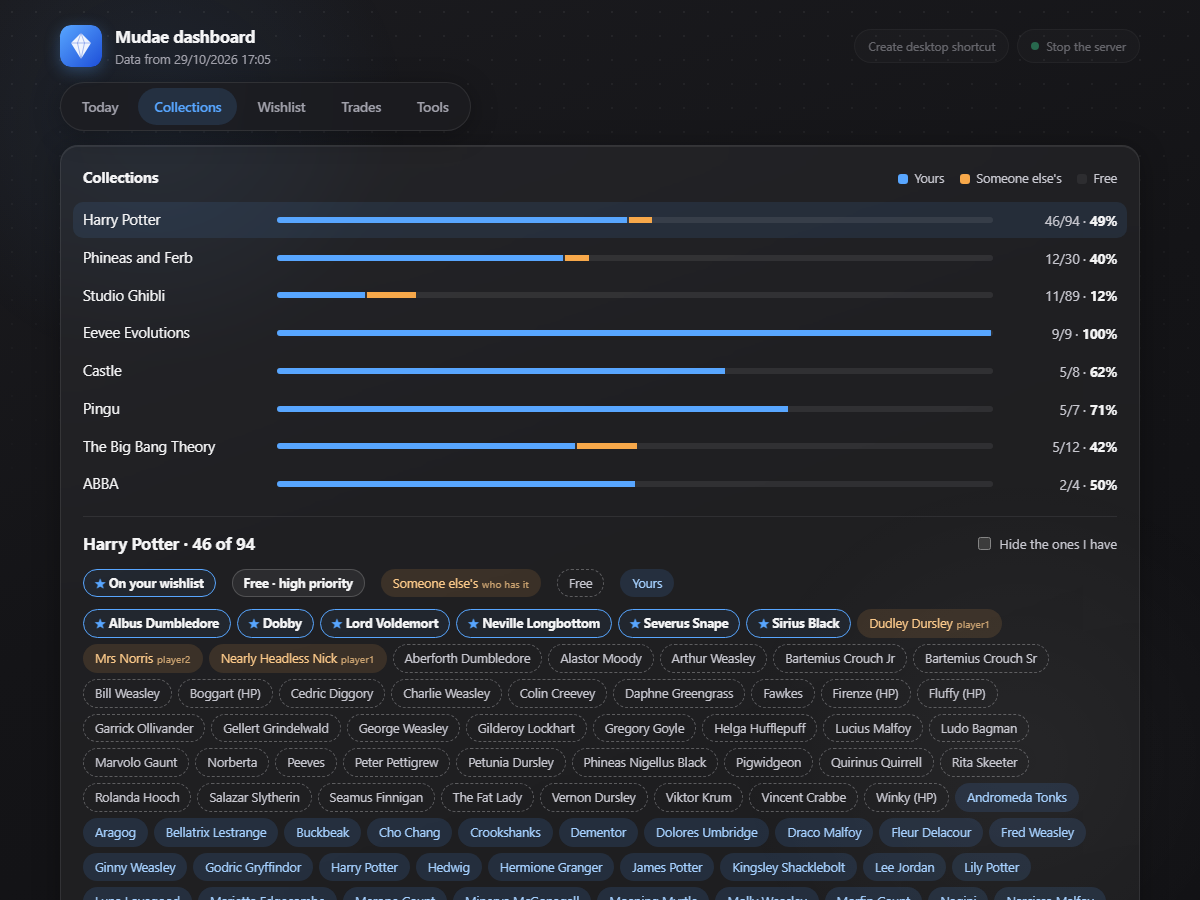
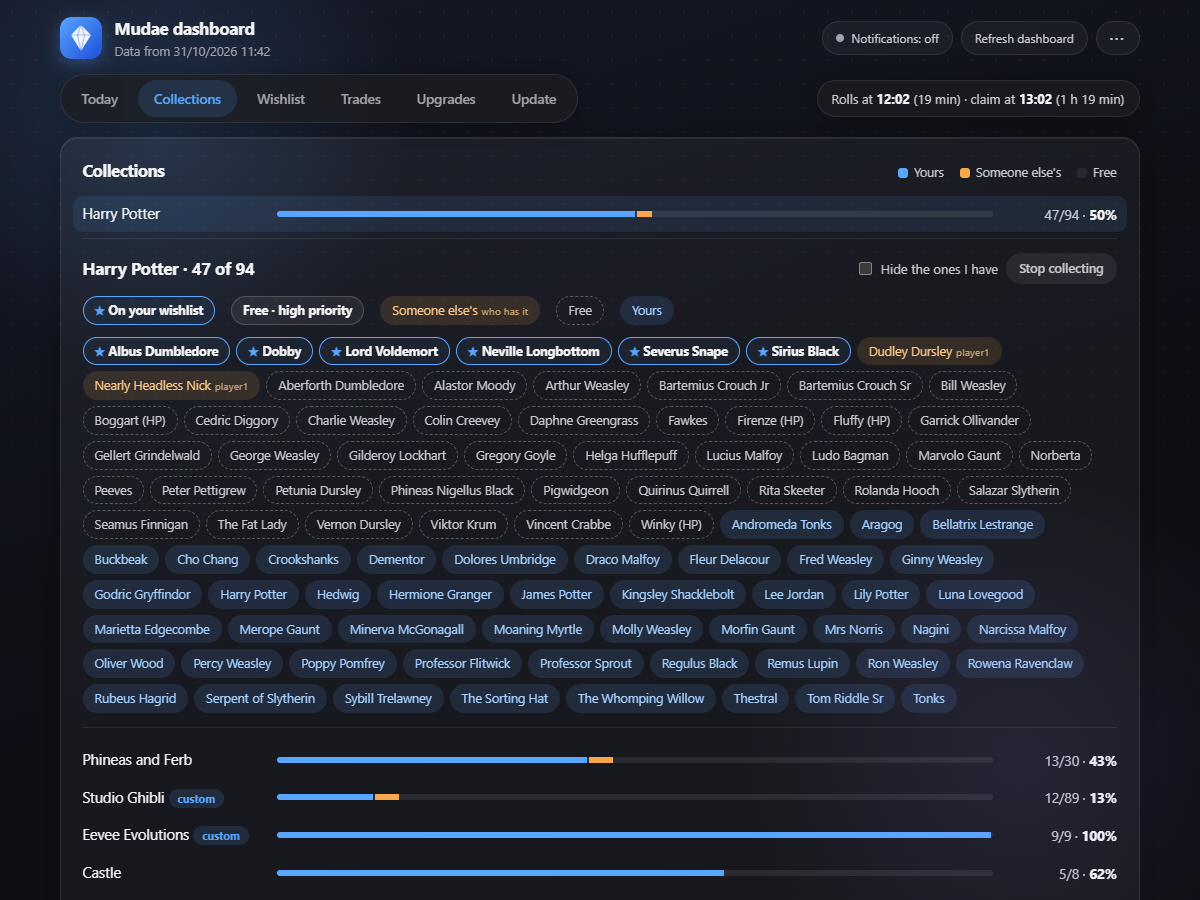
docs: update README and screenshots for the redesign

diff --git a/README.es.md b/README.es.md
@@ -6,27 +6,28 @@
 <b>Descárgalo:</b> botón verde <b>Code → Download ZIP</b>, arriba de esta página.<br>
 <a href="README.md">English</a> · <a href="README.ca.md">Català</a> · <b>Español</b></p>
 
-![El panel: cifras de la colección, qué toca ahora y el ayudante del $oc](assets/tauler.png)
+![La pestaña Hoy: cifras de la colección, el reloj de tiradas y reclamo, y qué toca ahora](assets/tauler.png)
 
 Un panel que funciona en tu ordenador para el bot de Discord Mudae. Pegas lo que te envía Mudae y te lleva las colecciones, la wishlist y los intercambios, te dice qué toca hacer cada hora, te ayuda con el juego de esferas `$oc` y te mantiene al día un Excel. En español, catalán e inglés.
 
 ## Qué hace
 
-- **Qué toca ahora**: reloj de tiradas y reclamos, y una lista donde cada tarea queda marcada hasta que la puedes volver a hacer (`$daily` y `$dk` cada 20 h, `$vote` cada 12 h, `$oh` a medianoche UTC, tiradas cada hora…).
+- **Pestañas por orden de uso**: Hoy, Colecciones, Wishlist, Intercambios, Mejoras y Poner al día. El reloj de tiradas y reclamo se ve desde todas, los avisos te llevan a la pestaña donde se arreglan, y los bloques largos se pliegan y se quedan abiertos o cerrados como los dejaste.
+- **Qué toca ahora**: pegas el `$tu` y la lista se marca sola. Tres tarjetas (cada hora, momento de reclamar, al empezar el día) donde cada tarea queda marcada hasta que la puedes volver a hacer (`$daily` y `$dk` cada 20 h, `$vote` cada 12 h, `$oh` a medianoche UTC, tiradas cada hora…).
 - **Notificaciones**: mientras el panel está abierto, te avisa cuando vuelves a tener tiradas, y te dice si puedes reclamar y reaccionar a kakera. Suenan y se quedan en pantalla hasta que las cierras. Se activan y se desactivan con el botón **Notificaciones** de arriba.
-- **Ayudante del `$oc`**: marcas los colores que salen y te dice en qué casilla hacer clic para encontrar la roja.
+- **Ayudante del `$oc`**: marcas los colores que salen y te dice en qué casilla hacer clic para encontrar la roja. Está plegado en la pestaña Hoy: se abre con un clic.
 - **Colecciones**: un álbum por serie con tus personajes, los libres, los de la wishlist y los de otros jugadores (y de quién son). Haces clic en los que consigues para marcarlos como tuyos.
 - **Colecciones especiales**: un grupo que eliges tú, aunque no sea una serie de Mudae (por ejemplo, los Eevee de la Pokédex). Escribes el nombre y los personajes, y el `$imaso` de la serie de la que salen te pone de quién es cada uno.
 - **Mejoras**: pegas el `$k`, el `$kt`, un `$opp <personaje>`, el `$os` o el `$mmy=` y te dice qué insignia, qué piso de la torre, qué mejora de esferas y qué mejora de la tienda de esferas te toca, y cuánta kakera te falta.
 - **Wishlist**: te avisa de los que ya son tuyos o que ha reclamado alguien, y te prepara los comandos `$wishremove` y `$wish`.
 - **Intercambios y regalos**: el comando `$give` para cada jugador, y un buscador que entiende listas de series mal escritas («full metal alchimist», «Rezero»…).
 - **Poner al día**: pegas el `$mma+s` (tu harem, con la serie de cada personaje), el `$wl` o un `$imaso` y haces clic en un botón. Te avisa si hace más de una semana que no pones al día el harem.
-- **Comandos de uso habitual**: todos, con lo que hacen y un botón de copiar.
+- **Comandos de uso habitual**: por temas (tiradas, reclamar, tu colección, harén y perfil, intercambios, esferas, torre, kakera, Pokéslot…), cada grupo plegado, con un buscador («wish», «kakera»…), lo que hace cada comando y un botón de copiar.
 - **Excel**: lo mismo en una hoja de cálculo, que respeta lo que escribes en ella (prioridades, notas, estado de los intercambios).
 
-| Colecciones | Buscador para regalos |
+| Colecciones | Intercambios y regalos |
 |---|---|
-| ![Álbum de una colección](assets/col-leccions.png) | ![Buscador de series](assets/cercador.png) |
+| ![Álbum de una colección](assets/col-leccions.png) | ![A quién pedir y el buscador para regalos](assets/cercador.png) |
 
 ## Instalación (5 minutos)
 
@@ -45,7 +46,7 @@ A partir de aquí, abre el panel con el acceso directo **Mudae** del escritorio.
 
 - **Qué toca ahora** te dice qué hacer y cuándo. Ve marcando lo que haces.
 - **Cuando consigas un personaje**: en «Colecciones», elige la serie, haz clic en él y en **Ya son míos**.
-- **Cuando regales**: en «Buscar entre los míos», búscalos, copia el `$give` y, cuando Mudae lo confirme, haz clic en **Ya los he dado**.
+- **Cuando regales**: en «Intercambios» → «Buscar entre los míos», búscalos, copia el `$give` y, cuando Mudae lo confirme, haz clic en **Ya los he dado**.
 - **Una vez por semana**: vuelve a pegar el `$mma+s` en «Poner al día» (el panel te avisa).
 
 ## Bueno saber
@@ -54,6 +55,7 @@ A partir de aquí, abre el panel con el acceso directo **Mudae** del escritorio.
 - Los botones usan un servidor pequeño que solo escucha en tu ordenador (`127.0.0.1`) y solo acepta peticiones del panel. Se cierra solo un par de minutos después de cerrar la pestaña, o con **Cerrar el servidor**, en el menú **···** de arriba.
 - Puedes pegar los mensajes tal cual: las cabeceras de Discord, «Page 1 / 21» y la numeración se ignoran.
 - **Versiones nuevas**: el botón **Actualizar el panel** mira si hay una en GitHub y, si le dices que sí, la pone sola. La carpeta `dades/` no se toca. (Si tienes una versión de antes de este botón, descarga el ZIP una vez y copia sus archivos encima de los tuyos.)
+- **¿Has perdido el acceso directo?** En el menú **···** de arriba está **Crear acceso directo en el escritorio**.
 - **No borres la carpeta `lib`**: tiene lo que necesita el programa para escribir el Excel.
 
 ## Tus datos

diff --git a/README.ca.md b/README.ca.md
@@ -6,27 +6,28 @@
 <b>Descarrega'l:</b> botó verd <b>Code → Download ZIP</b>, a dalt d'aquesta pàgina.<br>
 <a href="README.md">English</a> · <b>Català</b> · <a href="README.es.md">Español</a></p>
 
-![El tauler: xifres de la col·lecció, què toca ara i l'ajudant del $oc](assets/tauler.png)
+![La pestanya Avui: xifres de la col·lecció, el rellotge de tirades i reclam, i què toca ara](assets/tauler.png)
 
 Un tauler que funciona al teu ordinador per al bot de Discord Mudae. Hi enganxes el que t'envia Mudae i et porta les col·leccions, la wishlist i els intercanvis, et diu què toca fer a cada hora, t'ajuda amb el joc d'esferes `$oc` i et manté al dia un Excel. En català, castellà i anglès.
 
 ## Què fa
 
-- **Què toca ara**: rellotge de tirades i reclams, i una llista on cada tasca queda marcada fins que la pots tornar a fer (`$daily` i `$dk` cada 20 h, `$vote` cada 12 h, `$oh` a mitjanit UTC, tirades cada hora…).
+- **Pestanyes per ordre d'ús**: Avui, Col·leccions, Wishlist, Intercanvis, Millores i Posar al dia. El rellotge de tirades i reclam es veu des de totes, els avisos et porten a la pestanya on s'arreglen, i els blocs llargs es pleguen i es queden oberts o tancats com els vas deixar.
+- **Què toca ara**: enganxes el `$tu` i la llista es marca sola. Tres targetes (cada hora, moment de reclamar, en començar el dia) on cada tasca queda marcada fins que la pots tornar a fer (`$daily` i `$dk` cada 20 h, `$vote` cada 12 h, `$oh` a mitjanit UTC, tirades cada hora…).
 - **Notificacions**: mentre el tauler és obert, t'avisa quan tornes a tenir tirades, i et diu si pots reclamar i reaccionar a kakera. Fan un so i es queden a la pantalla fins que les tanques. S'activen i es desactiven amb el botó **Notificacions** de dalt.
-- **Ajudant del `$oc`**: marques els colors que surten i et diu quina casella clicar per trobar la vermella.
+- **Ajudant del `$oc`**: marques els colors que surten i et diu quina casella clicar per trobar la vermella. És plegat a la pestanya Avui: s'obre amb un clic.
 - **Col·leccions**: un àlbum per sèrie amb els teus personatges, els lliures, els de la wishlist i els d'altres jugadors (i de qui són). Cliques els que aconsegueixes per marcar-los com a teus.
 - **Col·leccions especials**: un grup que tries tu, encara que no sigui una sèrie de Mudae (per exemple, els Eevee de la Pokédex). Escrius el nom i els personatges, i el `$imaso` de la sèrie d'on surten t'hi posa de qui és cada un.
 - **Millores**: enganxes el `$k`, el `$kt`, un `$opp <personatge>`, el `$os` o el `$mmy=` i et diu quina insígnia, quin pis de la torre, quina millora d'esferes i quina de la botiga d'esferes et toca, i quanta kakera et falta.
 - **Wishlist**: t'avisa dels que ja són teus o que ha reclamat algú, i et prepara les ordres `$wishremove` i `$wish`.
 - **Intercanvis i regals**: l'ordre `$give` per a cada jugador, i un cercador que entén llistes de sèries mal escrites («full metal alchimist», «Rezero»…).
 - **Posar al dia**: enganxes el `$mma+s` (el teu harem, amb la sèrie de cada personatge), el `$wl` o un `$imaso` i cliques un botó. T'avisa si fa més d'una setmana que no poses al dia el harem.
-- **Ordres d'ús habitual**: totes, amb el que fan i un botó de copiar.
+- **Ordres d'ús habitual**: per temes (tirades, reclamar, la teva col·lecció, harem i perfil, intercanvis, esferes, torre, kakera, Pokéslot…), cada grup plegat, amb un cercador («wish», «kakera»…), el que fa cada ordre i un botó de copiar.
 - **Excel**: el mateix en un full de càlcul, que respecta el que hi escrius (prioritats, notes, estat dels intercanvis).
 
-| Col·leccions | Cercador per a regals |
+| Col·leccions | Intercanvis i regals |
 |---|---|
-| ![Àlbum d'una col·lecció](assets/col-leccions.png) | ![Cercador de sèries](assets/cercador.png) |
+| ![Àlbum d'una col·lecció](assets/col-leccions.png) | ![A qui demanar i el cercador per a regals](assets/cercador.png) |
 
 ## Instal·lació (5 minuts)
 
@@ -45,7 +46,7 @@ A partir d'aquí, obre el tauler amb l'accés directe **Mudae** de l'escriptori.
 
 - **Què toca ara** et diu què fer i quan. Ves marcant el que fas.
 - **Quan aconsegueixis un personatge**: a «Col·leccions», tria la sèrie, clica'l i clica **Ja són meus**.
-- **Quan regalis**: a «Buscar entre els meus», busca'ls, copia el `$give` i, quan Mudae ho confirmi, clica **Ja els he donat**.
+- **Quan regalis**: a «Intercanvis» → «Buscar entre els meus», busca'ls, copia el `$give` i, quan Mudae ho confirmi, clica **Ja els he donat**.
 - **Un cop per setmana**: torna a enganxar el `$mma+s` a «Posar al dia» (el tauler t'avisa).
 
 ## Bo de saber
@@ -54,6 +55,7 @@ A partir d'aquí, obre el tauler amb l'accés directe **Mudae** de l'escriptori.
 - Els botons fan servir un servidor petit que només escolta al teu ordinador (`127.0.0.1`) i només accepta peticions del tauler. Es tanca sol un parell de minuts després de tancar la pestanya, o amb **Tancar el servidor**, al menú **···** de dalt.
 - Pots enganxar els missatges tal qual: les capçaleres de Discord, «Page 1 / 21» i la numeració s'ignoren.
 - **Versions noves**: el botó **Actualitzar el tauler** mira si n'hi ha una a GitHub i, si li dius que sí, la posa sola. La carpeta `dades/` no es toca. (Si tens una versió d'abans d'aquest botó, baixa el ZIP un cop i copia'n els fitxers damunt dels teus.)
+- **Has perdut l'accés directe?** Al menú **···** de dalt hi ha **Crear accés directe a l'escriptori**.
 - **No esborris la carpeta `lib`**: hi ha el que necessita el programa per escriure l'Excel.
 
 ## Les teves dades

diff --git a/README.md b/README.md
@@ -6,27 +6,28 @@
 <b>Download:</b> green <b>Code → Download ZIP</b> button at the top of this page.<br>
 <b>English</b> · <a href="README.ca.md">Català</a> · <a href="README.es.md">Español</a></p>
 
-![The dashboard: collection stats, what to do now and the $oc helper](assets/tauler.png)
+![The Today tab: collection stats, the roll and claim clock, and what to do now](assets/tauler.png)
 
 A dashboard that runs on your own computer for the Mudae Discord bot. You paste what Mudae sends you and it tracks your collections, wishlist and trades, tells you what to do each hour, helps you with the `$oc` sphere game and keeps an Excel workbook up to date. Available in English, Catalan and Spanish.
 
 ## Features
 
-- **What to do now**: a clock for rolls and claims, and a checklist where each task stays ticked until you can do it again (`$daily` and `$dk` every 20 h, `$vote` every 12 h, `$oh` at midnight UTC, rolls every hour…).
+- **Tabs in the order you use them**: Today, Collections, Wishlist, Trades, Upgrades and Update. The roll and claim clock stays above the tabs, alerts take you to the tab where you fix them, and long sections fold away and stay open or closed the way you left them.
+- **What to do now**: paste your `$tu` and the checklist ticks itself. Three cards (every hour, claim time, start of the day) where each task stays ticked until you can do it again (`$daily` and `$dk` every 20 h, `$vote` every 12 h, `$oh` at midnight UTC, rolls every hour…).
 - **Notifications**: while the dashboard is open, it tells you when your rolls are back, and whether you can claim and react to kakera. They beep and stay on screen until you close them. Turn them on and off with the **Notifications** button at the top.
-- **`$oc` helper**: mark the colors that appear and it tells you which square to click to find the red sphere.
+- **`$oc` helper**: mark the colors that appear and it tells you which square to click to find the red sphere. It's folded on the Today tab: open it with a click.
 - **Collections**: one album per series with your characters, the free ones, the ones on your wishlist and the ones other players own (and who). Click the ones you get to mark them as yours.
 - **Custom collections**: a group you pick, even if it isn't a Mudae series (for example, the Eevees from the Pokédex). Type its name and characters, and the `$imaso` of the series they come from fills in who owns each one.
 - **Upgrades**: paste your `$k`, `$kt`, `$opp <character>`, `$os` or `$mmy=` and it tells you which badge, tower floor, sphere perk and sphere shop upgrade to get next, and how much kakera you still need.
 - **Wishlist**: warns you about characters you already own or someone else claimed, and builds the `$wishremove` and `$wish` commands for you.
 - **Trades and gifts**: the `$give` command for each player, and a search box that understands misspelled series lists («full metal alchimist», «Rezero»…).
 - **Update**: paste your `$mma+s` (your harem, with each character's series), `$wl` or an `$imaso` and click a button. It reminds you if your harem is more than a week old.
-- **Common commands**: all of them, with what they do and a copy button.
+- **Common commands**: grouped by topic (rolls, claims, your collection, harem and profile, trades, spheres, tower, kakera, Pokéslot…), each group folded, with a search box («wish», «kakera»…), what each command does and a copy button.
 - **Excel**: the same in a spreadsheet, which keeps what you type in it (priorities, notes, trade status).
 
-| Collections | Search for gifts |
+| Collections | Trades and gifts |
 |---|---|
-| ![A collection album](assets/col-leccions.png) | ![Series search](assets/cercador.png) |
+| ![A collection album](assets/col-leccions.png) | ![Who to ask and the gift search](assets/cercador.png) |
 
 ## Install (5 minutes)
 
@@ -45,7 +46,7 @@ From then on, open the dashboard with the **Mudae** shortcut on your desktop.
 
 - **What to do now** tells you what to do and when. Tick things as you do them.
 - **When you get a character**: in «Collections», choose the series, click it and click **They're mine**.
-- **When you give characters away**: in «Search my characters», find them, copy the `$give` command and, once Mudae confirms it, click **I've given them**.
+- **When you give characters away**: in «Trades» → «Search my characters», find them, copy the `$give` command and, once Mudae confirms it, click **I've given them**.
 - **Once a week**: paste your `$mma+s` again in «Update» (the dashboard reminds you).
 
 ## Good to know
@@ -54,6 +55,7 @@ From then on, open the dashboard with the **Mudae** shortcut on your desktop.
 - The buttons use a small server that only listens on your own computer (`127.0.0.1`) and only accepts requests from the dashboard. It stops by itself a couple of minutes after you close the tab, or with **Stop the server** in the **···** menu at the top.
 - You can paste messages as they are: Discord headers, «Page 1 / 21» and numbering are ignored.
 - **New versions**: the **Refresh dashboard** button checks GitHub for a new version and, if you say yes, installs it. The `dades/` folder is not touched. (If your version is older than this button, download the ZIP once and copy its files over yours.)
+- **Lost the desktop shortcut?** The **···** menu at the top has **Create desktop shortcut**.
 - **Don't delete the `lib` folder**: it has what the program needs to write the Excel file.
 
 ## Your data
